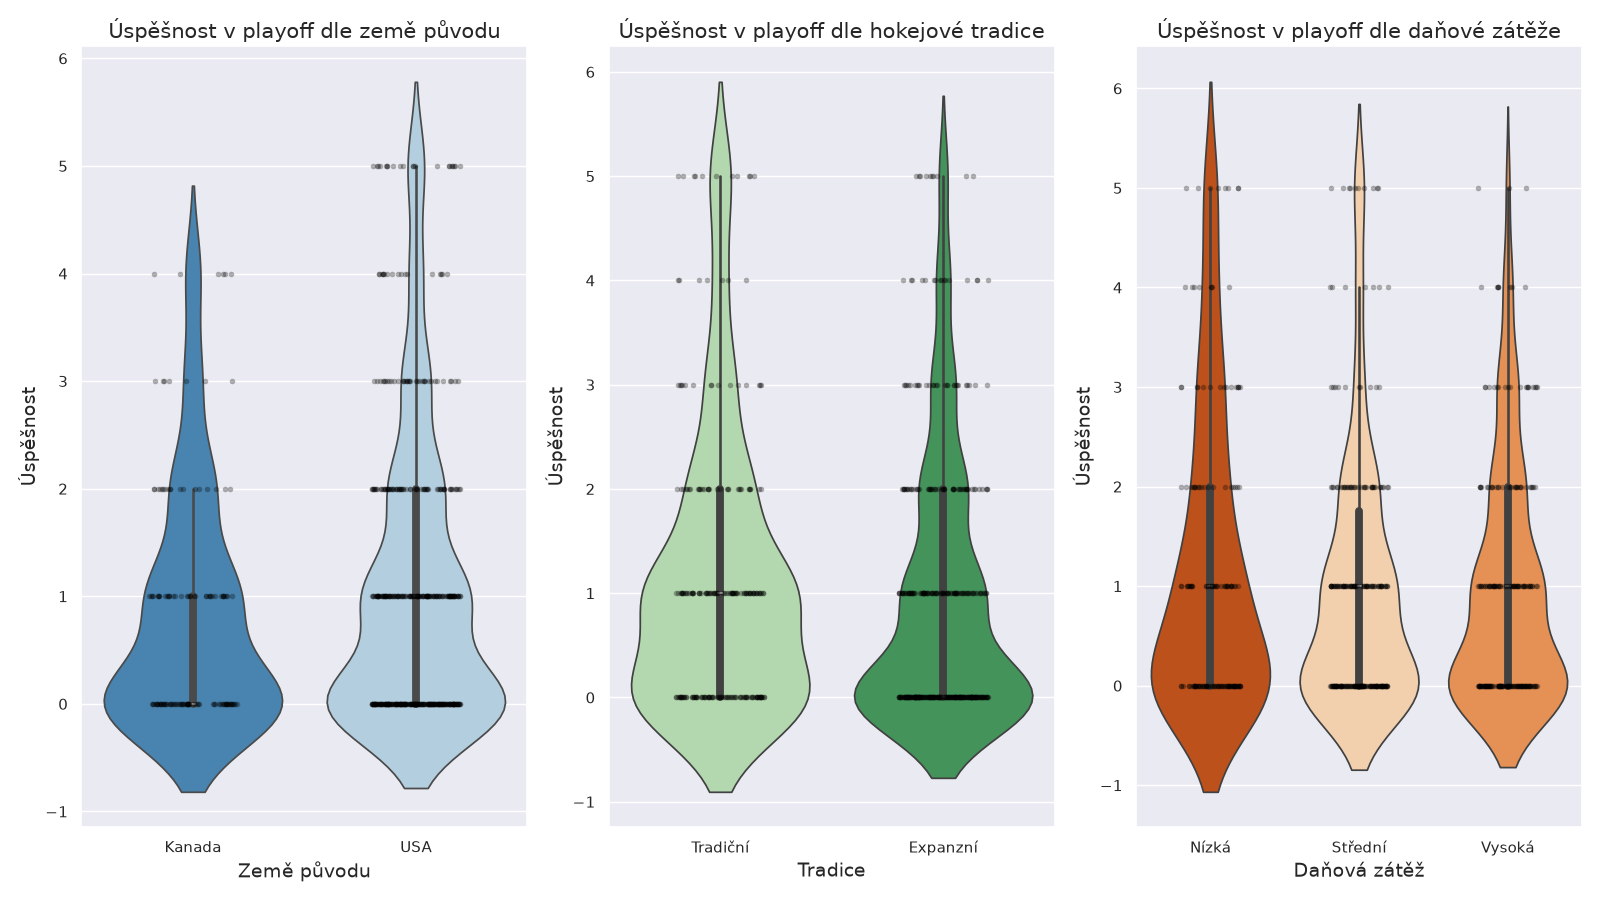
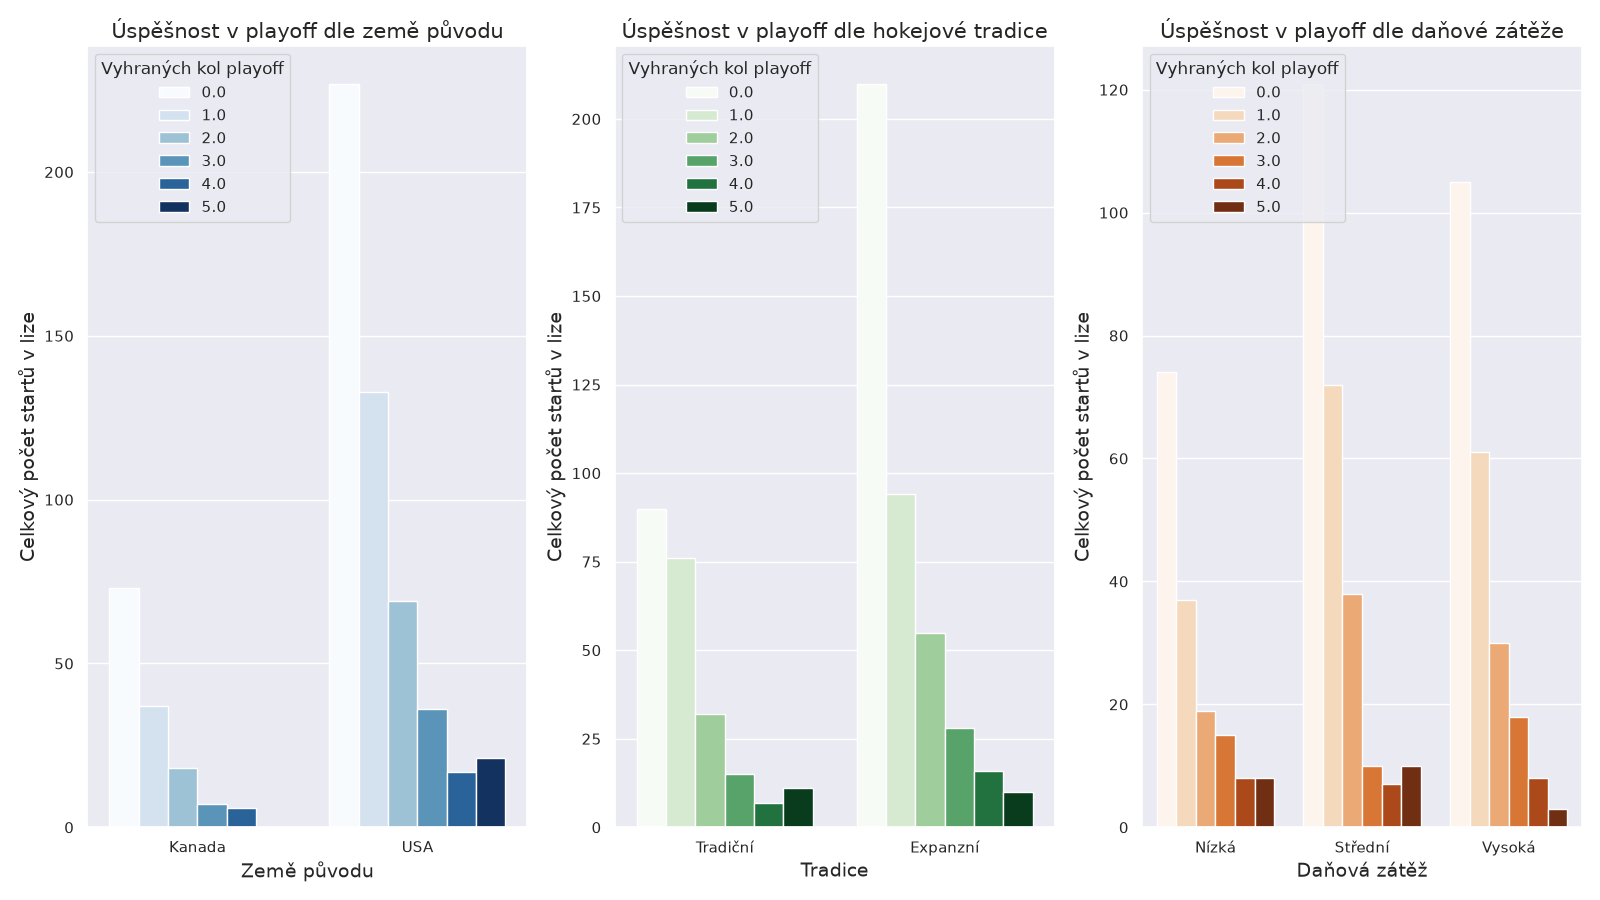
add support for plotting of non-continuous data to graph_plotter.py

diff --git a/tools/graph_plotter.py b/tools/graph_plotter.py
@@ -56,30 +56,42 @@ def plot_graphs(is_regular_season: bool, output_path: str):
 
     for idx, arg in enumerate(graph_args):
         ax[idx].set_xlabel(arg[2], fontsize=14)
-        ax[idx].set_ylabel("Úspěšnost", fontsize=14)
         ax[idx].set_title(f"Úspěšnost v {stage_label} dle {arg[4]}", fontsize=15)
 
-        sns.violinplot(
-            data=data,
-            x=arg[0],
-            y="Performance",
-            hue=arg[0],
-            ax=ax[idx],
-            palette=arg[1],
-            legend=False,
-            order=arg[3],
-        )
-        sns.stripplot(
-            data=data,
-            x=arg[0],
-            y="Performance",
-            color="black",
-            alpha=0.3,
-            jitter=0.2,
-            size=4,
-            ax=ax[idx],
-            order=arg[3],
-        )
+        if is_regular_season:
+            ax[idx].set_ylabel("Úspěšnost", fontsize=14)
+            sns.violinplot(
+                data=data,
+                x=arg[0],
+                y="Performance",
+                hue=arg[0],
+                ax=ax[idx],
+                palette=arg[1],
+                legend=False,
+                order=arg[3],
+            )
+            sns.stripplot(
+                data=data,
+                x=arg[0],
+                y="Performance",
+                color="black",
+                alpha=0.3,
+                jitter=0.2,
+                size=4,
+                ax=ax[idx],
+                order=arg[3],
+            )
+        else:
+            ax[idx].set_ylabel("Celkový počet startů v lize", fontsize=14)
+            sns.countplot(
+                data=data,
+                x=arg[0],
+                hue="Performance",
+                ax=ax[idx],
+                palette=arg[1],
+                order=arg[3],
+            )
+            ax[idx].legend(title="Vyhraných kol playoff", loc="upper left")
 
     plt.tight_layout()
     plt.savefig(output_path)
